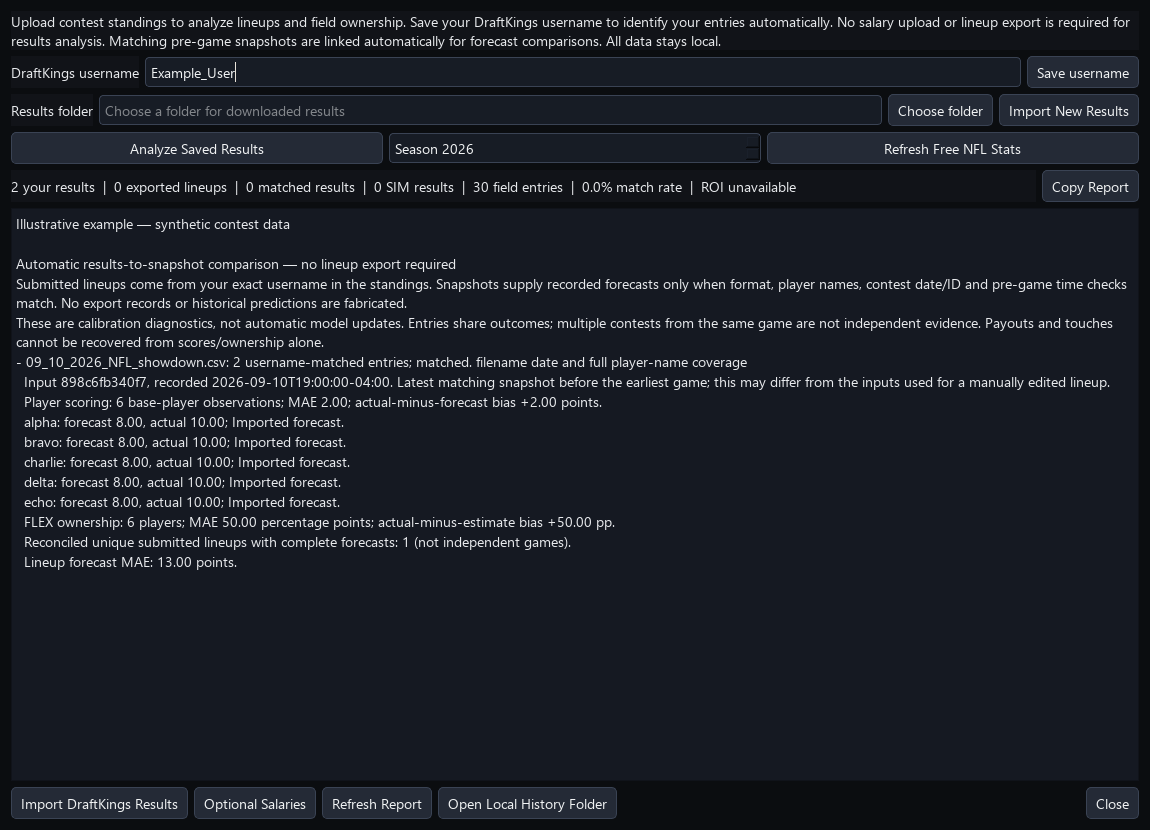
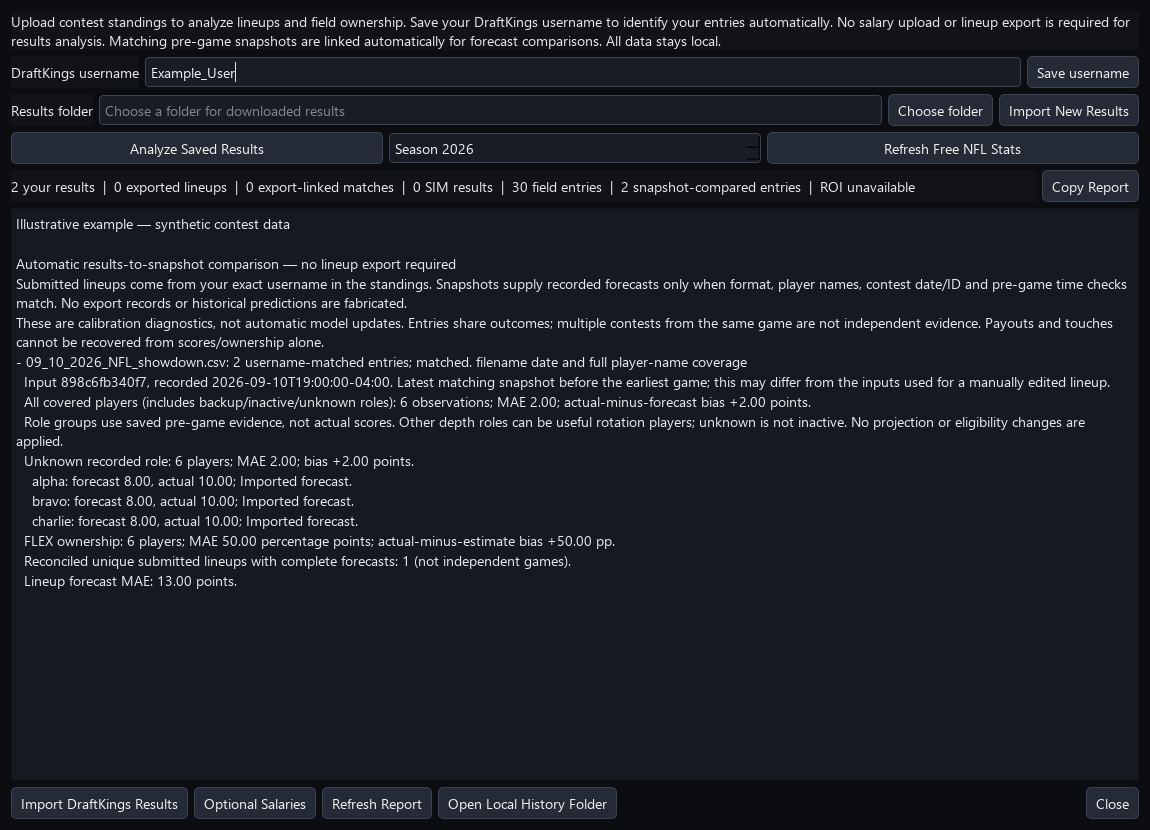
Correct observed ownership reports and separate forecast evidence groups

Changed region(s): [[0.0, 0.4819, 0.7304, 0.7229], [0.213, 0.2108, 0.7913, 0.241], [0.7609, 0.4819, 0.9435, 0.512]]

diff --git a/learning_db.py b/learning_db.py
@@ -833,10 +833,13 @@ def generate_learning_report(*, db_path: Optional[str] = None, username: str = "
             f"- Exported lineups: {exported_lineups}",
             f"- Result files imported: {imported_files}",
             f"- Result entries imported: {imported_rows}",
-            f"- Exact lineup matches: {matched_rows} entries / {matched_lineups} unique lineups ({match_rate:.1f}%)",
-            f"- Forecast validation confidence: {outcome_confidence}",
+            f"- Export-linked matches (separate from username/snapshot matching): {matched_rows} entries / {matched_lineups} unique lineups ({match_rate:.1f}% of imported entries)",
+            f"- Export-linked forecast validation confidence: {outcome_confidence}",
             "- All history stays on this computer.", "", "Contest performance",
         ]
+        from results_snapshot_learning import snapshot_counts
+        snapshot_summary = snapshot_counts(conn, username)
+        lines.insert(-2, f"- Automatic snapshot comparisons: {snapshot_summary['contests']} contests; {snapshot_summary['entries']} submitted entries; {snapshot_summary['unique']} unique lineups within contests.")
         own_rows = []
         if username:
             for entry_name, points, rank, percentile, top_one, raw, import_id in cur.execute(
@@ -889,9 +892,9 @@ def generate_learning_report(*, db_path: Optional[str] = None, username: str = "
         else:
             lines.append("- No imported result has matched an exported lineup yet.")
             if imported_rows:
-                lines.append("- Results are saved, but prediction comparisons require the original export history from the device that generated these lineups.")
+                lines.append("- Results are saved. Export-linked comparisons need original exports; automatic snapshot comparisons below work independently.")
 
-        lines.extend(["", "Projection calibration"])
+        lines.extend(["", "Export-linked projection calibration"])
         if actual:
             lines.append(f"- Matched lineups with actual scores: {len(actual)}")
             lines.append(f"- Adjusted projection MAE: {adjusted_mae:.2f} DK points")
@@ -992,6 +995,9 @@ def generate_learning_report(*, db_path: Optional[str] = None, username: str = "
                             for name, value in top_owned
                         )
                     )
+                if ownership_profile.get('version') != 'observed-rosters-v2':
+                    lines.append('- Older lineup-ownership summary hidden; Analyze Saved Results rebuilds it from observed rosters.')
+                    ownership_profile = {}
                 profile_field = dict(ownership_profile.get("field") or {})
                 profile_top = dict(ownership_profile.get("top_one") or {})
                 if profile_field.get("lineups") and profile_top.get("lineups"):
@@ -1109,7 +1115,7 @@ def generate_learning_report(*, db_path: Optional[str] = None, username: str = "
         else:
             lines.append("- Samples are useful for auditing, but contest selection and slate strength still affect ROI.")
         if imported_rows and matched_rows < imported_rows:
-            lines.append("- Unmatched rows usually mean the final submitted lineup differed from the app export or the file lacks a parseable lineup.")
+            lines.append("- Missing export links do not prevent username-based results analysis or automatic snapshot comparisons below.")
 
         from results_audit import build_results_audit
         lines.extend(build_results_audit(conn, username=username))
@@ -1119,6 +1125,7 @@ def generate_learning_report(*, db_path: Optional[str] = None, username: str = "
             "text": "\n".join(lines), "db_path": path, "export_count": export_count,
             "exported_lineups": exported_lineups, "historical_rows": imported_rows,
             "personal_results_count": len(own_rows),
+            "snapshot_comparisons": snapshot_summary,
             "matched_rows": matched_rows, "matched_lineups": matched_lineups,
             "match_rate": match_rate, "net": net, "roi_pct": roi_pct,
             "cash_rate": statistics.mean(cash_values) if cash_values else None,
@@ -1764,6 +1771,8 @@ def _finalize_ownership_profile(
         }
     return {
         "ownership_coverage_pct": accumulator["mapped_slots"] / max(1, accumulator["total_slots"]) * 100.0,
+        "version": "observed-rosters-v2",
+        "ownership_source": "Observed roster appearances / parsed field entries",
         "source_vs_computed_mae": source_vs_computed_mae,
         "field": averages(accumulator["field"]),
         "top_one": averages(accumulator["top_one"]),
@@ -2242,7 +2251,6 @@ def _stream_complete_field_summary(
         str(key): _safe_float(value)
         for key, value in dict(preflight.get("source_ownership") or {}).items()
     }
-    ownership_accumulator = _new_ownership_profile_accumulator()
 
     with open(path, "r", newline="", encoding="utf-8-sig") as handle:
         sample = handle.read(4096)
@@ -2287,15 +2295,6 @@ def _stream_complete_field_summary(
             is_top_one = rank <= top_cutoff
             if is_top_one:
                 top_signatures.append(digest)
-            if source_ownership:
-                _add_ownership_profile(
-                    ownership_accumulator,
-                    signature,
-                    digest,
-                    source_ownership,
-                    top_one=is_top_one,
-                )
-
             lineup_meta = [metadata.get(token) for token in signature]
             mapped_slots += sum(1 for meta in lineup_meta if meta)
             total_slots += len(signature)
@@ -2351,18 +2350,10 @@ def _stream_complete_field_summary(
         for token, actual in actual_ownership.items()
         if token in metadata and _safe_float(metadata[token].get("ownership"), 0.0) > 0
     ]
-    source_ownership_errors = [
-        abs(actual_ownership[token] - source_ownership[token])
-        for token in actual_ownership
-        if token in source_ownership
-    ]
-    ownership_profile = _finalize_ownership_profile(
-        ownership_accumulator,
-        signature_counts,
-        source_vs_computed_mae=(
-            statistics.mean(source_ownership_errors) if source_ownership_errors else None
-        ),
-    )
+    from results_field_ownership import field_profile
+    ownership_profile = field_profile(path, field_size, source_ownership,
+        ownership=actual_ownership, counts=signature_counts,
+        cancelled=cancel_callback or (lambda: False))
     construction_count = sum(stack_counts.values())
     stack_rates = {
         str(value): stack_counts[str(value)] / max(1, construction_count)
@@ -3072,6 +3063,8 @@ def load_nfl_field_calibration(
         try:
             profile = json.loads(row[11] or "{}")
         except Exception:
+            profile = {}
+        if profile.get('version') != 'observed-rosters-v2':
             profile = {}
         row_entries = _safe_int(row[0], 0)
         if profile and row_entries > 0:

diff --git a/results_snapshot_learning.py b/results_snapshot_learning.py
@@ -10,6 +10,34 @@ from repeatability import atomic_json
 from projection_sources import number
 
 
+def forecast_group(player):
+    """Use frozen pre-game evidence, never the player's eventual score or current depth."""
+    from nfl_eligibility import unavailable,depth
+    if unavailable(player):return 'Recorded unavailable'
+    pos=str(player.get('Position') or '').upper()
+    order=depth(player)
+    if pos=='QB':
+        if player.get('NFLQBEligible') is True:return 'Recorded starters / eligible QBs'
+        if order>1:return 'Backup QBs'
+        if player.get('NFLQBEligible') is False:return 'Unverified / excluded QBs'
+    if order==1:return 'Recorded starters / eligible QBs'
+    if order>1:return 'Other depth roles / rotation'
+    return 'Unknown recorded role'
+
+
+def snapshot_counts(conn,username):
+    from learning_db import _dk_username
+    result=dict(contests=0,entries=0,unique=0)
+    if not conn.execute("SELECT 1 FROM sqlite_master WHERE name='result_snapshot_reviews'").fetchone():return result
+    for encoded, in conn.execute('SELECT payload FROM result_snapshot_reviews'):
+        p=json.loads(encoded)
+        if p.get('status')!='matched' or p.get('username')!=_dk_username(username):continue
+        result['contests']+=1
+        result['unique']+=len(p.get('lineups',[]))
+        result['entries']+=sum(r.get('entry_count',1) for r in p.get('lineups',[]))
+    return result
+
+
 def game_start(value):
     m=re.search(r'(\d{2}/\d{2}/20\d{2})\s+(\d{1,2}:\d{2}\s*[AP]M)\s+ET\b',str(value),re.I)
     if not m:return None
@@ -69,7 +97,7 @@ def compare_snapshot(conn,import_id,name,folder,date,kind,scores,ownership,usern
     from learning_db import _normalize_roster_token,_dk_username,_field_roster_signature
     observed={k.removeprefix('@cpt:') for k in scores}
     snap,reason=match_snapshot(folder,date,kind,observed,name)
-    payload=dict(version=1,name=name,username=_dk_username(username),status='unavailable',reason=reason,
+    payload=dict(version=2,name=name,username=_dk_username(username),status='unavailable',reason=reason,
                  input_id=None,players=[],lineups=[],personal_entries=0)
     personal=[]
     for entry,actual,raw in conn.execute('SELECT entry_name,actual_points,raw_json FROM historical_results WHERE import_id=?',(import_id,)):
@@ -95,6 +123,7 @@ def compare_snapshot(conn,import_id,name,folder,date,kind,scores,ownership,usern
                 if actual_own is not None and not 0<=actual_own<=100:actual_own=None
                 # Base player scoring appears once; Captain ownership remains separate.
                 player_rows.append(dict(player=key,slot=slot,source=p.get('ProjectionSource','Unknown'),
+                    forecast_group=forecast_group(p),
                     projected=forecast if slot!='Captain' else None,actual=base.get(key) if slot!='Captain' else None,
                     expected_ownership=expected,actual_ownership=actual_own))
         payload['players']=player_rows
@@ -108,7 +137,8 @@ def compare_snapshot(conn,import_id,name,folder,date,kind,scores,ownership,usern
             if any(v is None for v in values+actual_values):continue
             computed=sum(v*(1.5 if k.startswith('@cpt:') else 1) for k,v in zip(signature,actual_values))
             if abs(computed-actual)>.15:continue
-            unique[signature]=dict(roster=signature,projected=sum(values),actual=actual)
+            count=unique.get(signature,{}).get('entry_count',0)+1
+            unique[signature]=dict(roster=signature,projected=sum(values),actual=actual,entry_count=count)
         payload['lineups']=list(unique.values())
     conn.execute('CREATE TABLE IF NOT EXISTS result_snapshot_reviews(import_id TEXT PRIMARY KEY,payload TEXT)')
     conn.execute('INSERT OR REPLACE INTO result_snapshot_reviews VALUES (?,?)',(import_id,json.dumps(payload)))
@@ -130,9 +160,15 @@ def snapshot_report(conn,username):
         usable=[r for r in p['players'] if r['projected'] is not None and r['actual'] is not None]
         if usable:
             errors=[r['actual']-r['projected'] for r in usable]
-            lines.append(f"  Player scoring: {len(errors)} base-player observations; MAE {statistics.mean(map(abs,errors)):.2f}; actual-minus-forecast bias {statistics.mean(errors):+.2f} points.")
-            for r in sorted(usable,key=lambda r:-abs(r['actual']-r['projected']))[:5]:
-                lines.append(f"  {r['player']}: forecast {r['projected']:.2f}, actual {r['actual']:.2f}; {r['source']}.")
+            lines.append(f"  All covered players (includes backup/inactive/unknown roles): {len(errors)} observations; MAE {statistics.mean(map(abs,errors)):.2f}; actual-minus-forecast bias {statistics.mean(errors):+.2f} points.")
+            lines.append('  Role groups use saved pre-game evidence, not actual scores. Other depth roles can be useful rotation players; unknown is not inactive. No projection or eligibility changes are applied.')
+            for group in ('Recorded starters / eligible QBs','Other depth roles / rotation','Backup QBs','Recorded unavailable','Unverified / excluded QBs','Unknown recorded role'):
+                rows=[r for r in usable if r.get('forecast_group','Unknown recorded role')==group]
+                if not rows:continue
+                errors=[r['actual']-r['projected'] for r in rows]
+                lines.append(f"  {group}: {len(rows)} players; MAE {statistics.mean(map(abs,errors)):.2f}; bias {statistics.mean(errors):+.2f} points.")
+                for r in sorted(rows,key=lambda r:-abs(r['actual']-r['projected']))[:3]:
+                    lines.append(f"    {r['player']}: forecast {r['projected']:.2f}, actual {r['actual']:.2f}; {r['source']}.")
         for slot in sorted({r['slot'] for r in p['players']}):
             usable=[r for r in p['players'] if r['slot']==slot and r['expected_ownership'] is not None and r['actual_ownership'] is not None]
             if usable:

diff --git a/test_results_report_corrections.py b/test_results_report_corrections.py
@@ -1,0 +1,59 @@
+import json
+import sqlite3
+import tempfile
+import unittest
+from contextlib import closing
+from pathlib import Path
+from unittest.mock import patch
+import test_results_snapshot_learning as fixtures
+from learning_db import import_historical_result_csvs,generate_learning_report,_ImportCancelled
+from performance_review import analyze_saved_results
+from results_field_ownership import refresh_cached_profile,field_profile,VERSION
+from results_snapshot_learning import forecast_group
+
+
+class ResultsReportCorrectionsTests(unittest.TestCase):
+    def test_observed_ownership_wins_over_wrong_listed_percentages_both_formats(self):
+        for kind in ('classic','showdown'):
+            with tempfile.TemporaryDirectory() as folder:
+                source,_,_=fixtures.ResultsSnapshotLearningTests().fixture(folder,kind)
+                source.write_text(source.read_text(encoding='utf-8').replace(',100,10',',1,10'),encoding='utf-8')
+                db=str(Path(folder)/'history.sqlite')
+                import_historical_result_csvs([str(source)],username='Example_User',db_path=db,archive_files=False)
+                with closing(sqlite3.connect(db)) as c:
+                    profile=json.loads(c.execute('SELECT ownership_profile_json FROM contest_field_summaries').fetchone()[0])
+                    self.assertEqual(profile['version'],VERSION)
+                    self.assertEqual(profile['field']['avg_twenty_plus_players'],6 if kind=='showdown' else 9)
+                    self.assertEqual(profile['field']['avg_total_ownership'],600 if kind=='showdown' else 900)
+                    self.assertGreater(profile['source_vs_computed_mae'],90)
+                    c.execute("UPDATE contest_field_summaries SET ownership_profile_json='{}'");c.commit()
+                analyze_saved_results(db_path=db,username='Example_User')
+                with closing(sqlite3.connect(db)) as c:
+                    updated=json.loads(c.execute('SELECT ownership_profile_json FROM contest_field_summaries').fetchone()[0])
+                    self.assertEqual(updated,profile)
+                    with patch('learning_db._preflight_complete_field_csv',side_effect=AssertionError('unnecessary reread')):
+                        refresh_cached_profile(c,c.execute('SELECT import_id FROM historical_imports').fetchone()[0],source)
+                report=generate_learning_report(db_path=db,username='Example_User')
+                self.assertEqual(report['personal_results_count'],2)
+                self.assertEqual(report['matched_rows'],0)
+                self.assertEqual(report['snapshot_comparisons'],dict(contests=1,entries=2,unique=1))
+                self.assertIn('Export-linked matches',report['text'])
+
+    def test_cancelled_profile_stops_before_computation(self):
+        with tempfile.TemporaryDirectory() as folder:
+            source,_,_=fixtures.ResultsSnapshotLearningTests().fixture(folder)
+            with self.assertRaises(_ImportCancelled):field_profile(source,30,cancelled=lambda:True)
+
+    def test_roles_use_saved_evidence_and_do_not_treat_zero_as_inactive(self):
+        cases=[(dict(Position='QB',NFLQBEligible=True,NFLDepthOrder=2),'Recorded starters / eligible QBs'),
+               (dict(Position='QB',NFLQBEligible=False,NFLDepthOrder=2),'Backup QBs'),
+               (dict(Position='WR',NFLDepthOrder=2),'Other depth roles / rotation'),
+               (dict(Position='RB',NFLDepthOrder=1),'Recorded starters / eligible QBs'),
+               (dict(Position='RB',NFLDepthOrder=1,NFLActive=False),'Recorded unavailable'),
+               (dict(Position='WR',FlexProjection=0),'Unknown recorded role'),
+               (dict(Position='QB',NFLQBEligible=False),'Unverified / excluded QBs')]
+        for player,expected in cases:
+            before=dict(player);self.assertEqual(forecast_group(player),expected);self.assertEqual(player,before)
+
+
+if __name__=='__main__':unittest.main()

diff --git a/results_field_ownership.py b/results_field_ownership.py
@@ -1,0 +1,51 @@
+"""Field ownership profiles use observed rosters, never projections or listed weights."""
+import csv
+import hashlib
+import json
+import math
+import statistics
+from collections import Counter
+
+VERSION = 'observed-rosters-v2'
+
+
+def field_profile(path, field_size, source=None, *, ownership=None, counts=None, cancelled=lambda:False):
+    from learning_db import (_field_roster_signature, _parse_rank, _canon_result_col,
+        _new_ownership_profile_accumulator, _add_ownership_profile, _finalize_ownership_profile, _ImportCancelled)
+    def rows():
+        with open(path,newline='',encoding='utf-8-sig') as f:
+            sample=f.read(4096);f.seek(0)
+            try:dialect=csv.Sniffer().sniff(sample,delimiters=',;\t|')
+            except csv.Error:dialect=csv.excel
+            reader=csv.DictReader(f,dialect=dialect)
+            cols={_canon_result_col(h):h for h in reader.fieldnames or []}
+            for i,row in enumerate(reader):
+                if i%2500==0 and cancelled():raise _ImportCancelled()
+                signature=_field_roster_signature(str(row.get(cols.get('lineup'),'') or ''))
+                if not signature:continue
+                key=hashlib.blake2b('\x1f'.join(signature).encode(),digest_size=12).digest()
+                yield signature,key,_parse_rank(row.get(cols.get('rank')))
+    if ownership is None:
+        players=Counter();counts=Counter();n=0
+        for signature,key,rank in rows():
+            players.update(signature);counts[key]+=1;n+=1
+        ownership={p:v/max(1,n)*100 for p,v in players.items()}
+    acc=_new_ownership_profile_accumulator();cut=max(1,math.ceil(field_size*.01))
+    for signature,key,rank in rows():
+        _add_ownership_profile(acc,signature,key,ownership,top_one=0<rank<=cut)
+    errors=[abs(v-source[p]) for p,v in ownership.items() if source and p in source]
+    profile=_finalize_ownership_profile(acc,counts,source_vs_computed_mae=statistics.mean(errors) if errors else None)
+    profile.update(version=VERSION,ownership_source='Observed roster appearances / parsed field entries')
+    return profile
+
+
+def refresh_cached_profile(conn,import_id,path,cancelled=lambda:False):
+    from learning_db import _preflight_complete_field_csv
+    rows=conn.execute('SELECT field_id,field_size,ownership_profile_json FROM contest_field_summaries WHERE import_id=?',(import_id,)).fetchall()
+    for field_id,size,encoded in rows:
+        old=json.loads(encoded or '{}')
+        if old.get('version')==VERSION:continue
+        preflight=_preflight_complete_field_csv(path,cancel_callback=cancelled)
+        if not preflight.get('complete'):continue
+        profile=field_profile(path,size,preflight.get('source_ownership'),cancelled=cancelled)
+        conn.execute('UPDATE contest_field_summaries SET ownership_profile_json=? WHERE field_id=?',(json.dumps(profile),field_id))

diff --git a/test_results_audit.py b/test_results_audit.py
@@ -21,7 +21,8 @@ class ResultsAuditTests(unittest.TestCase):
                     w.writerow([i+1,1000+i,'Example_User (1/1)' if i==0 else 'Other',65,'CPT '+names[0]+' FLEX '+' FLEX '.join(names[1:])]+side)
             import_historical_result_csvs([str(path)],username='Example_User',db_path=db,archive_files=False)
             text=generate_learning_report(db_path=db,username='Example_User')['text']
-            self.assertIn('forecast matches 1, unmatched 0',text)
+            self.assertIn('export-linked forecast matches 1, without export links 0',text)
+            self.assertIn('Snapshot comparisons are separate below',text)
             self.assertIn('1 checked, 0 mismatches',text)
             self.assertIn('1 player pairs checked; 0 differ',text)
             self.assertIn('Largest player forecast misses',text)

diff --git a/main_window.py b/main_window.py
@@ -4044,13 +4044,13 @@ class ResultsLearningDialog(QtWidgets.QDialog):
                 f"{int(payload.get('personal_results_count', 0)):,} your results  |  "
                 f"{int(payload.get('exported_lineups', 0)):,} exported lineups  |  "
 
-                f"{int(payload.get('matched_rows', 0)):,} matched results  |  "
+                f"{int(payload.get('matched_rows', 0)):,} export-linked matches  |  "
 
                 f"{int(payload.get('sim_matched_rows', 0)):,} SIM results  |  "
 
                 f"{int(payload.get('field_entries', 0)):,} field entries  |  "
 
-                f"{float(payload.get('match_rate', 0.0)):.1f}% match rate  |  {roi_text}"
+                f"{int(payload.get('snapshot_comparisons', {}).get('entries', 0)):,} snapshot-compared entries  |  {roi_text}"
 
             )
 

diff --git a/results_audit.py b/results_audit.py
@@ -72,7 +72,7 @@ def build_results_audit(conn, username=''):
             fingerprints.add(hashlib.sha256(json.dumps(signature).encode()).hexdigest())
         matched = [r for r in rows if r[3]]
         total_matched += len(matched)
-        lines.append(f'- Contest: {file_name}; your entries {len(rows)}, forecast matches {len(matched)}, unmatched {len(rows)-len(matched)}.')
+        lines.append(f'- Contest: {file_name}; your entries {len(rows)}, export-linked forecast matches {len(matched)}, without export links {len(rows)-len(matched)}. Snapshot comparisons are separate below.')
         if problem:
             lines.append('  Data gap: '+problem)
         unmatched = [r for r in rows if not r[3]]

diff --git a/performance_review.py b/performance_review.py
@@ -130,6 +130,9 @@ def analyze_saved_results(*,db_path=None,username='',cancelled=lambda:False,prog
                 messages.append(name+': complete NFL field unavailable');continue
             progress('Analyzing '+name)
             if not path or not os.path.isfile(path):messages.append(name+': original file unavailable; previous cached review retained');continue
+            from results_field_ownership import refresh_cached_profile
+            with conn:
+                refresh_cached_profile(conn,import_id,path,cancelled)
             inferred_date=result_date(name) or result_date(Path(path).name)
             from learning_db import _import_username_entries
             with conn:

diff --git a/README.md b/README.md
@@ -702,3 +702,12 @@ The automatic comparison reports snapshot ID/time, per-player forecast errors an
 These are calibration diagnostics saved locally, not automatic model changes. Multiple contests from the same game and lineups sharing players are not independent evidence. Existing export-linked validation remains separate. Import results after each slate and use **Copy Report** to review mismatches before changing the model.
 
 ![Results analysis with automatic snapshot comparison](docs/images/automatic-results-learning.png)
+
+
+## Ownership and forecast report corrections
+
+After updating, use **Results & Learning > Analyze Saved Results** once. Older lineup-ownership summaries are rebuilt from observed roster appearances; no salary file or new simulation is needed. Each player's field ownership and each lineup's ownership total now share the same denominator and observed source, including distinct Captain/FLEX slots. The CSV's listed percentages are compared separately as an input consistency check, never used in place of actual roster ownership. Older unversioned summaries are hidden and excluded from ownership-profile calibration until rebuilt; other field metadata remains intact. Cancel leaves the current contest's previous summary unchanged. Original files must still be available for rebuilding.
+
+The summary distinguishes your username-matched results, reconciled snapshot-compared entries and export-linked matches. Snapshot comparisons count repeated submitted entries, while forecast error continues to count identical lineups once per contest. These counts overlap and must not be added together. A low export-match percentage is not a failure to identify your entries or match snapshots.
+
+Snapshot player-error reports show separate groups for recorded starters/eligible QBs, other depth roles/rotation, backup QBs, recorded unavailable players, unverified/excluded QBs and unknown roles. Classification uses only frozen pre-game evidence. An eligible replacement QB stays in the eligible group. Other depth roles are not automatically inactive, and zero outcomes do not determine eligibility. Legacy snapshots with missing role evidence remain unknown. The all-player error is explicitly labeled as including these groups; no forecast, role, lineup or simulation weights change.

diff --git a/docs/releases/v1.19.0.md b/docs/releases/v1.19.0.md
@@ -256,3 +256,12 @@ The automatic comparison reports snapshot ID/time, per-player forecast errors an
 These are calibration diagnostics saved locally, not automatic model changes. Multiple contests from the same game and lineups sharing players are not independent evidence. Existing export-linked validation remains separate. Import results after each slate and use **Copy Report** to review mismatches before changing the model.
 
 ![Results analysis with automatic snapshot comparison](../images/automatic-results-learning.png)
+
+
+## Ownership and forecast report corrections
+
+After updating, use **Results & Learning > Analyze Saved Results** once. Older lineup-ownership summaries are rebuilt from observed roster appearances; no salary file or new simulation is needed. Each player's field ownership and each lineup's ownership total now share the same denominator and observed source, including distinct Captain/FLEX slots. The CSV's listed percentages are compared separately as an input consistency check, never used in place of actual roster ownership. Older unversioned summaries are hidden and excluded from ownership-profile calibration until rebuilt; other field metadata remains intact. Cancel leaves the current contest's previous summary unchanged. Original files must still be available for rebuilding.
+
+The summary distinguishes your username-matched results, reconciled snapshot-compared entries and export-linked matches. Snapshot comparisons count repeated submitted entries, while forecast error continues to count identical lineups once per contest. These counts overlap and must not be added together. A low export-match percentage is not a failure to identify your entries or match snapshots.
+
+Snapshot player-error reports show separate groups for recorded starters/eligible QBs, other depth roles/rotation, backup QBs, recorded unavailable players, unverified/excluded QBs and unknown roles. Classification uses only frozen pre-game evidence. An eligible replacement QB stays in the eligible group. Other depth roles are not automatically inactive, and zero outcomes do not determine eligibility. Legacy snapshots with missing role evidence remain unknown. The all-player error is explicitly labeled as including these groups; no forecast, role, lineup or simulation weights change.

diff --git a/docs/USER_GUIDE.md b/docs/USER_GUIDE.md
@@ -1407,3 +1407,12 @@ The automatic comparison reports snapshot ID/time, per-player forecast errors an
 These are calibration diagnostics saved locally, not automatic model changes. Multiple contests from the same game and lineups sharing players are not independent evidence. Existing export-linked validation remains separate. Import results after each slate and use **Copy Report** to review mismatches before changing the model.
 
 ![Results analysis with automatic snapshot comparison](images/automatic-results-learning.png)
+
+
+## Ownership and forecast report corrections
+
+After updating, use **Results & Learning > Analyze Saved Results** once. Older lineup-ownership summaries are rebuilt from observed roster appearances; no salary file or new simulation is needed. Each player's field ownership and each lineup's ownership total now share the same denominator and observed source, including distinct Captain/FLEX slots. The CSV's listed percentages are compared separately as an input consistency check, never used in place of actual roster ownership. Older unversioned summaries are hidden and excluded from ownership-profile calibration until rebuilt; other field metadata remains intact. Cancel leaves the current contest's previous summary unchanged. Original files must still be available for rebuilding.
+
+The summary distinguishes your username-matched results, reconciled snapshot-compared entries and export-linked matches. Snapshot comparisons count repeated submitted entries, while forecast error continues to count identical lineups once per contest. These counts overlap and must not be added together. A low export-match percentage is not a failure to identify your entries or match snapshots.
+
+Snapshot player-error reports show separate groups for recorded starters/eligible QBs, other depth roles/rotation, backup QBs, recorded unavailable players, unverified/excluded QBs and unknown roles. Classification uses only frozen pre-game evidence. An eligible replacement QB stays in the eligible group. Other depth roles are not automatically inactive, and zero outcomes do not determine eligibility. Legacy snapshots with missing role evidence remain unknown. The all-player error is explicitly labeled as including these groups; no forecast, role, lineup or simulation weights change.
